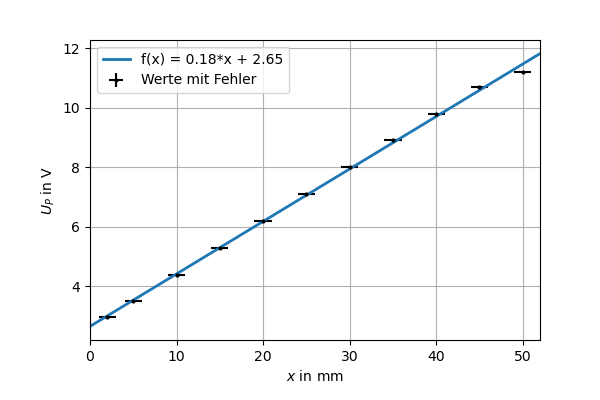
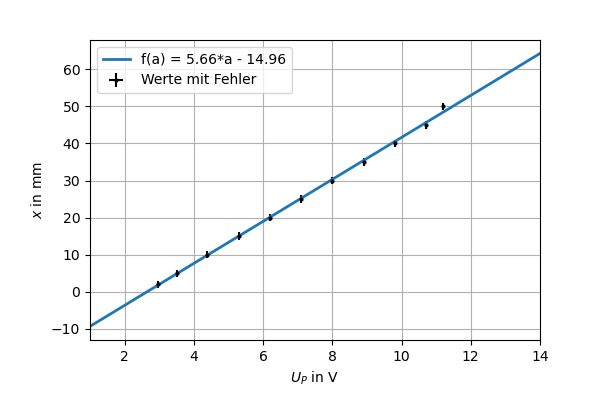
Laser

diff --git a/FP/4.-Laser.py b/FP/4.-Laser.py
@@ -22,11 +22,11 @@ s = len(x_data[0])
 xerr.append([0 for j in range(s)])
 yerr.append([1 for j in range(s)])
 
-x_data.append([2,5,10,15,20,25,30,35,40,45,50])
-y_data.append([2.95,3.5,4.38,5.3,6.2,7.1,8,8.91,9.8,10.7,11.2])
+x_data.append([2.95,3.5,4.38,5.3,6.2,7.1,8,8.91,9.8,10.7,11.2])
+y_data.append([2,5,10,15,20,25,30,35,40,45,50])
 s = len(x_data[1])
-xerr.append([1 for j in range(s)])
-yerr.append([0.01 for j in range(s)])
+xerr.append([0.01 for j in range(s)])
+yerr.append([1 for j in range(s)])
 
 fig = []
 ax = []
@@ -42,12 +42,12 @@ for i in range(2):
 
 ax[0].set_xlabel("Transmissivität $T$")
 ax[0].set_ylabel("$I_D$ in $\mu$A")
-ax[1].set_xlabel("$x$ in mm")
-ax[1].set_ylabel("$U_P$ in V")
+ax[1].set_xlabel("$U_P$ in V")
+ax[1].set_ylabel("$x$ in mm")
     
 """ Regressionskurve """ 
-xmin = [0,0]
-xmax = [1.1,52]
+xmin = [0,1]
+xmax = [1.1,14]
 x_data_unlimited = []
 for i in range(2):
     x_data_unlimited.append(np.arange(xmin[i],xmax[i],0.01))
@@ -57,7 +57,7 @@ def fitCurve(x, A, B):
 
 fitRes = []
 perr = []
-x = sp.symbols('x')
+x = sp.symbols('a')
 for i in range(2):
     fitRes.append(curve_fit(fitCurve, x_data[i], y_data[i], p0=[-1, 1]))
     pFit = fitRes[i][0]
@@ -65,7 +65,7 @@ for i in range(2):
     A = fitRes[i][0][0].round(2)
     B = fitRes[i][0][1].round(2)
     fitCurveStr = A * x + B
-    string = "f(x) = %s"%fitCurveStr
+    string = "f(a) = %s"%fitCurveStr
     print("Regressionskurve %s: %s"%(i+1,string))
     ax[i].plot(x_data_unlimited[i], fitCurve(x_data_unlimited[i], *pFit), label=string,linewidth=2)
     ax[i].legend()
@@ -100,129 +100,168 @@ for i in range(1):
     
 
 
-# =============================================================================
-# """ Daten auslesen """
-# countFiles = 20
-# versuchsindex = 4
-# ersterDatenIndex = 1
-# beamData1 = []
-# beamData2 = []
-# for i in range(countFiles):
-#     i += ersterDatenIndex
-#     file1 = open(f"{versuchsindex}.Daten/ALL{i:04d}/F{i:04d}CH1.CSV", encoding="charmap")
-#     file2 = open(f"{versuchsindex}.Daten/ALL{i:04d}/F{i:04d}CH2.CSV", encoding="charmap")
-#     beamData1.append(np.loadtxt(file1, delimiter=",", usecols=(3,4)))
-#     beamData2.append(np.loadtxt(file2, delimiter=",", usecols=(3,4)))
-#     file1.close()
-#     file2.close()
-#     
-# """ Konstanten """
-# U_x_err = 0.1
-# I_err = 0.1
-# 
-# 
-# """ Daten vorbereiten """
-# s = []
-# t_1 = []
-# t_2 = []
-# U_x = []
-# I = []
-# x_data = []
-# y_data = []
-# xerr = []
-# yerr = []
-# for i in range(countFiles):
-#     # t_1.append(beamData1[i][:,0])
-#     # t_2.append(beamData2[i][:,0])
-#     U_x.append(beamData1[i][:,1])
-#     I.append(beamData2[i][:,1])
-#     s1 = len(U_x)
-#     s2 = len(I)
-#     size = min(s1,s2)
-#     x_data_single = []
-#     y_data_single = []
-#     x_max = -1000
-#     for j in range(size):
-#         if U_x[i][j] in x_data_single:
-#             x_max = U_x[i][j]
-#             x_data_single.append(U_x[i][j])
-#             y_data_single.append(I[i][j])
-#     s.append(len(x_data_single))
-#     x_data.append(x_data_single)
-#     xerr.append([U_x_err for j in range(s[i])])
-#     y_data.append(y_data_single)
-#     yerr.append([I_err for j in range(s[i])])
-# 
-# """ Plotten """
-# versuchsname = "Laser2"
-# 
-# fig = []
-# ax = []
-# for i in range(countFiles):
-#     fig.append(plt.figure())
-#     ax.append(fig[i].add_axes([0.15,0.15,0.75,0.75]))
-#     ax[i].errorbar(x_data[i],y_data[i],yerr[i],xerr[i],label="Werte mit Fehler",fmt='o',markersize=2,color="Black")
-#     ax[i].legend()
-#     ax[i].grid(True)
-#     # ax[i].axis([0,1,2,3])
-#     # ax[i].set(xlim=(0,8))
-#     # ax[i].set(ylim=(-0.2,2.2))
-#     ax[i].set_xlabel("$x$ in mm")
-#     ax[i].set_ylabel("Intensität $U_T$ in V")
-# =============================================================================
+""" Daten auslesen """
+countFiles = 20
+versuchsindex = 4
+ersterDatenIndex = 1
+beamData1 = []
+beamData2 = []
+for i in range(countFiles):
+    i += ersterDatenIndex
+    file1 = open(f"{versuchsindex}.Daten/ALL{i:04d}/F{i:04d}CH1.CSV", encoding="charmap")
+    file2 = open(f"{versuchsindex}.Daten/ALL{i:04d}/F{i:04d}CH2.CSV", encoding="charmap")
+    beamData1.append(np.loadtxt(file1, delimiter=",", usecols=(3,4)))
+    beamData2.append(np.loadtxt(file2, delimiter=",", usecols=(3,4)))
+    file1.close()
+    file2.close()
+    
+""" Konstanten """
+U_x_err = 0.1
+I_err = 0.1
+d = [51+(3*i) for i in range(20)]
 
 
-# =============================================================================
-# """ Regressionskurve """ 
-# xmax = [1.4,2.4]
-# xmin = [-0.1,0]
-# x_data_unlimited = []
-# for i in range(countFiles):
-#     x_data_unlimited.append(np.arange(xmin[i],xmax[i],0.01))
-# 
-# def fitCurve(x, A, B):
-#     return A * np.asarray(x) + B
-# 
-# fitRes = []
-# perr = []
-# x = sp.symbols('x')
-# for i in range(countFiles):
-#     fitRes.append(curve_fit(fitCurve, x_data[i], y_data[i], p0=[-1, 1]))
-#     pFit = fitRes[i][0]
-#     pCov = fitRes[i][1]
-#     A = fitRes[i][0][0].round(2)
-#     B = fitRes[i][0][1].round(2)
-#     fitCurveStr = A * x + B
-#     string = "$f_1$(x) = %s"%fitCurveStr
-#     print("Regressionskurve %s: %s"%(i+1,string))
-#     ax[i].plot(x_data_unlimited[i], fitCurve(x_data_unlimited[i], *pFit), label=string,linewidth=2)
-#     ax[i].legend()
-#     perr.append(np.sqrt(np.diag(pCov)))
-#     print("Fitfehler",i+1,perr[i])
-#     ax[i].set(xlim=(xmin[i],xmax[i]))
-#     
-# def fitCurve(x, A):
-#     return A * np.asarray(x)
-# 
-# fitRes = []
-# perr = []
-# x = sp.symbols('x')
-# for i in range(1):
-#     fitRes.append(curve_fit(fitCurve, x_data[i], y_data[i], p0=[-1]))
-#     pFit = fitRes[i][0]
-#     pCov = fitRes[i][1]
-#     A = fitRes[i][0][0].round(2)
-#     fitCurveStr = A * x
-#     string = "$f_2$(x) = %s"%fitCurveStr
-#     print("Regressionskurve %s: %s"%(i+1,string))
-#     ax[i].plot(x_data_unlimited[i], fitCurve(x_data_unlimited[i], *pFit), label=string,linewidth=2)
-#     ax[i].legend()
-#     perr.append(np.sqrt(np.diag(pCov)))
-#     print("Fitfehler",i+1,perr[i])
-#     ax[i].set(xlim=(xmin[i],xmax[i]))
-# 
-# """ Plot speichern """
-# for i in range(countFiles):
-#     fig[i].savefig("./2.Plots/%s_%s_plot.png"%(versuchsname,i), dpi=100) # Bild als png Datei in Ordner Plots gespeichert
-# 
-# =============================================================================
+""" Daten vorbereiten """
+s = []
+t_1 = []
+t_2 = []
+U_x = []
+I = []
+x_data = []
+y_data = []
+xerr = []
+yerr = []
+for i in range(countFiles):
+    # t_1.append(beamData1[i][:,0])
+    # t_2.append(beamData2[i][:,0])
+    U_x.append(beamData1[i][:,1])
+    I.append(beamData2[i][:,1])
+    s1 = len(U_x[i])
+    s2 = len(I[i])
+    size = min(s1,s2)
+    x_data_single = []
+    y_data_single = []
+    for j in range(size):
+        if not U_x[i][j] in x_data_single:
+            x_data_single.append(U_x[i][j])
+            y_data_single.append(I[i][j])
+        n = x_data_single.index(min(x_data_single))
+    x_data_single.pop(n)
+    y_data_single.pop(n)
+    x_data_single = (fitRes[1][0][0] * np.array(x_data_single)) + fitRes[1][0][1]
+    s.append(len(x_data_single))
+    x_data.append(x_data_single)
+    xerr.append([(fitRes[1][0][0] * U_x_err) + (perr[1][0] * x_data_single[j]) + perr[1][1] for j in range(s[i])])
+    y_data.append(y_data_single)
+    yerr.append([I_err for j in range(s[i])])
+
+""" Plotten """
+versuchsname = "Laser2"
+
+fig = []
+ax = []
+for i in range(countFiles):
+    fig.append(plt.figure())
+    ax.append(fig[i].add_axes([0.15,0.15,0.75,0.75]))
+    ax[i].errorbar(x_data[i],y_data[i],yerr[i],xerr[i],label="Werte mit Fehler",fmt='o',markersize=2,color="Black")
+    ax[i].legend()
+    ax[i].grid(True)
+    # ax[i].axis([0,1,2,3])
+    # ax[i].set(xlim=(0,8))
+    # ax[i].set(ylim=(-0.2,2.2))
+    ax[i].set_xlabel("$x$ in mm")
+    ax[i].set_ylabel("Intensität $U_T$ in V")
+    ax[i].set_title(f"d = {d[i]}cm, sphährisch-sphärisch")
+
+
+""" Regressionskurve """ 
+xmax = []
+xmin = []
+x_data_unlimited = []
+for i in range(countFiles):
+    xmax.append(max(x_data[i]) + 5)   
+    xmin.append(min(x_data[i]) - 5)
+    x_data_unlimited.append(np.arange(xmin[i],xmax[i],0.01))
+
+def fitCurve(x, A, B, C):
+    return A * np.asarray(np.exp(-2*((x-C)**2)/(B**2)))
+
+fitRes = []
+perr = []
+x = sp.symbols('x')
+for i in range(countFiles):
+    fitRes.append(curve_fit(fitCurve, x_data[i], y_data[i], p0=[0.4, 5, 14.5]))
+    pFit = fitRes[i][0]
+    pCov = fitRes[i][1]
+    perr.append(np.sqrt(np.diag(pCov)))
+    A = fitRes[i][0][0].round(3)
+    B = abs(fitRes[i][0][1].round(2))
+    C = fitRes[i][0][2].round(2)
+    string = "$f_{%s}$(x) = %s * exp(-(2$(x-%s)^2$)/$%s^2$)"%(i+1,A,C,B)
+    print("Regressionskurve %s: %s"%(i+1,string))
+    ax[i].plot(x_data_unlimited[i], fitCurve(x_data_unlimited[i], *pFit), label=string,linewidth=2)
+    ax[i].legend()
+    print("Fitfehler",i+1,perr[i])
+    ax[i].set(xlim=(xmin[i],xmax[i]))
+
+""" Plot speichern """
+for i in range(countFiles):
+    fig[i].savefig("./4.Plots/%s_%s_plot.png"%(versuchsname,i), dpi=100) # Bild als png Datei in Ordner Plots gespeichert
+    plt.close(fig[i])
+    
+""" Tabelle ausgeben """
+versuchsname = "Strahlbreite_sp-sp"
+fig = []
+ax = []
+for i in range(1):
+    b = []
+    w = np.array([abs(fitRes[j][0][1]) for j in range(len(d))])
+    b.append(np.around(d,1))
+    b.append(np.around([fitRes[j][0][0] for j in range(len(d))],3))
+    b.append(np.around([perr[j][0] for j in range(len(d))],3))
+    b.append(np.around(w,2))
+    b.append(np.around([perr[j][1] for j in range(len(d))],3))
+    b.append(np.around([fitRes[j][0][2] for j in range(len(d))],2))
+    b.append(np.around([perr[j][2] for j in range(len(d))],3))
+    labels = ["$d$ in cm", "$I_0$ in V", "$\Delta I_0$ in V", "$w$ in cm", "$\Delta w$ in cm", "$x_0$ in cm", "$\Delta x_0$ in cm"]
+    b = np.array(b).T        
+    fig.append(plt.figure())
+    ax.append(fig[i].add_axes([0,0,1,1]))
+    ax[i].table(cellText=b,colLabels=labels,loc='center',rowLoc='center')
+    ax[i].axis("off")
+    
+""" Plot speichern """
+for i in range(1):
+    fig[i].savefig("./4.Plots/%s_table.png"%(versuchsname), dpi=100) # Bild als png Datei in Ordner Plots gespeichert
+    plt.close(fig[i])
+    
+""" Werte, Rechnungen """
+zs2 = 127.4
+as2 = 3
+zPT = -230
+a = np.array([zs2 - (d[i]/2) - as2 - zPT for i in range(countFiles)])
+theta = np.arctan(w/a)
+theta_err = theta
+    
+""" Tabelle ausgeben """
+versuchsname = "Winkeldivergenz_sp-sp"
+fig = []
+ax = []
+for i in range(1):
+    b = []
+    b.append(np.around(d,1))
+    b.append(np.around(a,1))
+    b.append(np.around(theta,5))
+    b.append(np.around(theta_err,5))
+    labels = ["$d$ in cm", "$a$ in cm", "$\Theta$ in ˚", "$\Delta \Theta$ in ˚"]
+    b = np.array(b).T        
+    fig.append(plt.figure())
+    ax.append(fig[i].add_axes([0,0,1,1]))
+    ax[i].table(cellText=b,colLabels=labels,loc='center',rowLoc='center')
+    ax[i].axis("off")
+    
+""" Plot speichern """
+for i in range(1):
+    fig[i].savefig("./4.Plots/%s_table.png"%(versuchsname), dpi=100) # Bild als png Datei in Ordner Plots gespeichert
+    plt.close(fig[i])
+
